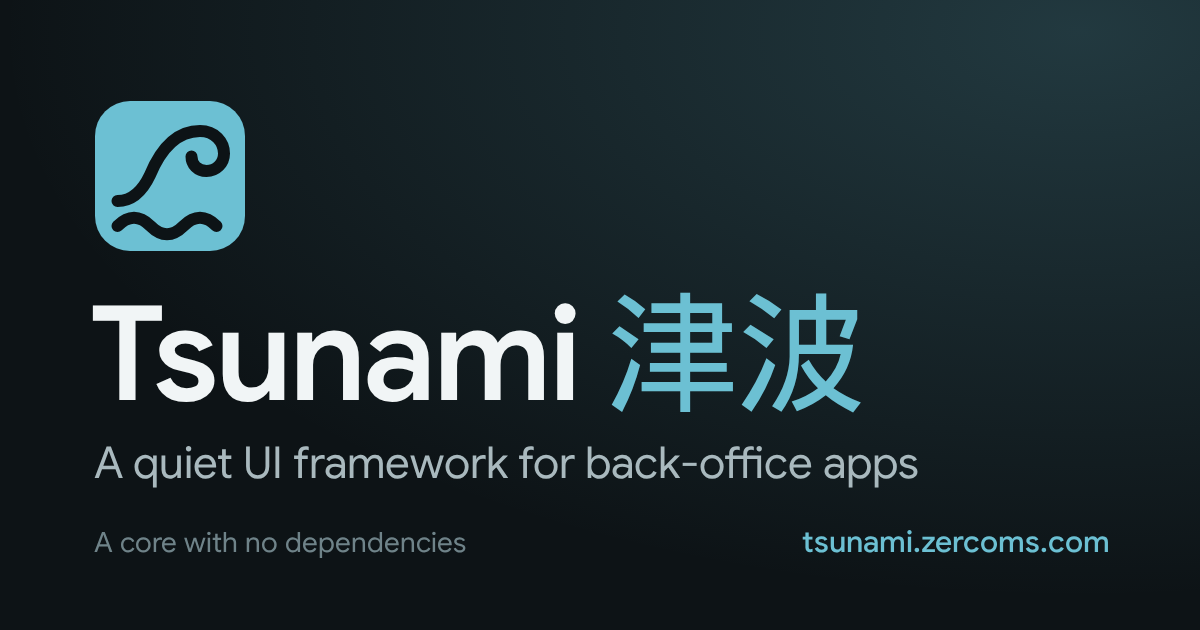
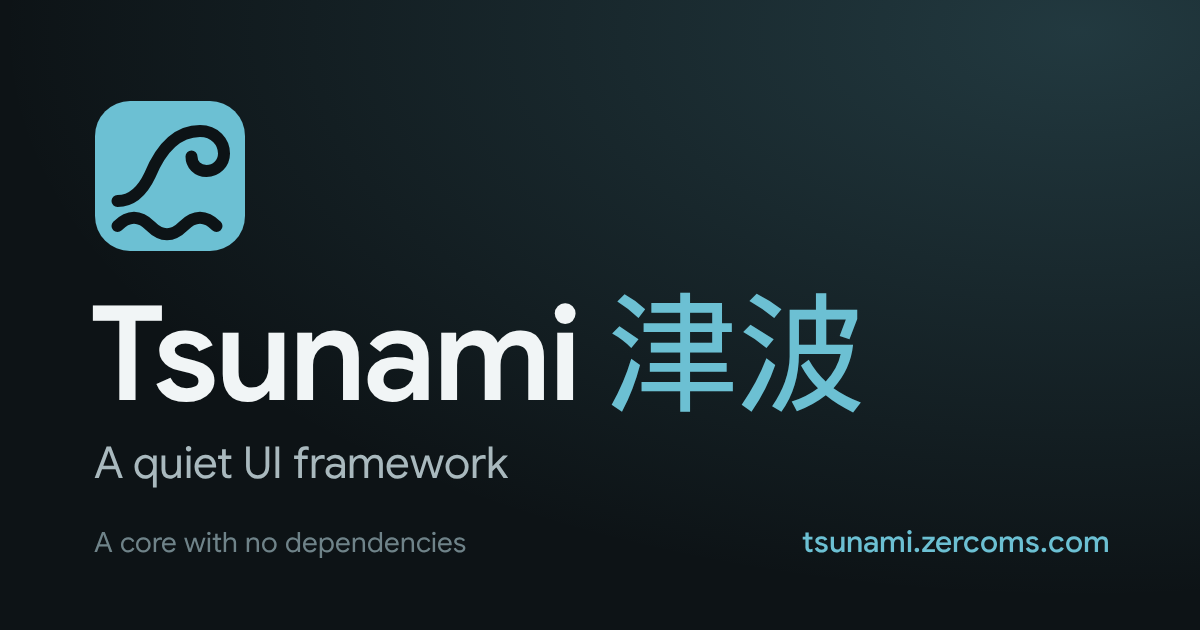
Drop 'for back-office apps' from the tagline: it is now 'A quiet UI framework'

Changed region(s): [[0.4317, 0.6937, 0.7708, 0.7841]]

diff --git a/site/app/(landing)/page.js b/site/app/(landing)/page.js
@@ -3,7 +3,7 @@ import { version } from "../_lib/content";
 import { HOME_TITLE, SITE_NAME } from "../_lib/seo";
 
 const description =
-  "Tsunami is a quiet UI framework for back-office apps: semantic HTML, data attributes and a little vanilla JS, 54 components, and a core with no dependencies.";
+  "Tsunami is a quiet UI framework: semantic HTML, data attributes and a little vanilla JS, 54 components, and a core with no dependencies.";
 
 export const metadata = {
   title: { absolute: HOME_TITLE },
@@ -116,9 +116,6 @@ export default function Landing() {
           <h1>
             <span className="landing-rise" style={{ "--i": 1 }}>
               A quiet UI framework
-            </span>
-            <span className="landing-rise" style={{ "--i": 2 }}>
-              for back-office apps
             </span>
           </h1>
           <p className="landing-lead landing-rise" style={{ "--i": 3 }}>

diff --git a/site/app/_lib/seo.js b/site/app/_lib/seo.js
@@ -4,12 +4,12 @@ import { pages } from "./content";
 
 export const SITE_URL = "https://tsunami.zercoms.com";
 export const SITE_NAME = "Tsunami";
-export const HOME_TITLE = "Tsunami – a quiet UI framework for back-office apps";
+export const HOME_TITLE = "Tsunami – a quiet UI framework";
 const IMAGE = {
   url: "/og.png",
   width: 1200,
   height: 630,
-  alt: "Tsunami 津波, a quiet UI framework for back-office apps",
+  alt: "Tsunami 津波, a quiet UI framework",
 };
 
 export const pagePath = (slug) => (slug === "index" ? "/docs" : `/docs/${slug}`);

diff --git a/site/content/index.html b/site/content/index.html
@@ -2,7 +2,7 @@
             <span class="badge">v{{version}}</span>
             <h1>Tsunami <span>津波</span></h1>
             <p class="docs-lead">
-              A quiet UI framework for back-office apps. Semantic HTML,
+              A quiet UI framework. Semantic HTML,
               <code>data-*</code> attributes and a little vanilla JS, with 53
               components, Lucide icons and country flags. The core has no
               runtime dependencies; a few components (editor, chart, date

diff --git a/site/app/manifest.js b/site/app/manifest.js
@@ -3,7 +3,7 @@ export default function manifest() {
   return {
     name: "Tsunami",
     short_name: "Tsunami",
-    description: "A quiet UI framework for back-office apps.",
+    description: "A quiet UI framework.",
     start_url: "/docs",
     display: "browser",
     background_color: "#fcfcfc",

diff --git a/.claude/skills/tsunami/SKILL.md b/.claude/skills/tsunami/SKILL.md
@@ -5,7 +5,7 @@ description: Build pages and back-office UIs with Tsunami (津波), the quiet UI
 
 # Tsunami
 
-A quiet UI framework for back-office apps: semantic HTML, a class per component, `data-*` for variants. Native elements first (`dialog`, `popover`, `details`, `button`); vanilla JS only where HTML can't do it. Every component and its markup: [references/components.md](references/components.md). Each one has a live page at `site/content/<name>.html`, and that page is the source of truth.
+A quiet UI framework: semantic HTML, a class per component, `data-*` for variants. Native elements first (`dialog`, `popover`, `details`, `button`); vanilla JS only where HTML can't do it. Every component and its markup: [references/components.md](references/components.md). Each one has a live page at `site/content/<name>.html`, and that page is the source of truth.
 
 ## Load
 

diff --git a/README.md b/README.md
@@ -4,7 +4,7 @@
 
 # Tsunami 津波
 
-A quiet UI framework for back-office apps.
+A quiet UI framework.
 Semantic HTML + `data-*` attributes. The core (`tsunami.min.css` and `tsunami.min.js`) has no runtime dependencies; five components load a library of their own, only on the pages that use them: Editor (TinyMCE), Code editor (Monaco), Chart (Chart.js), Date picker (Vanilla Calendar Pro) and Sortable (SortableJS).
 54 component pages, Lucide icons and 270 country flags.
 
